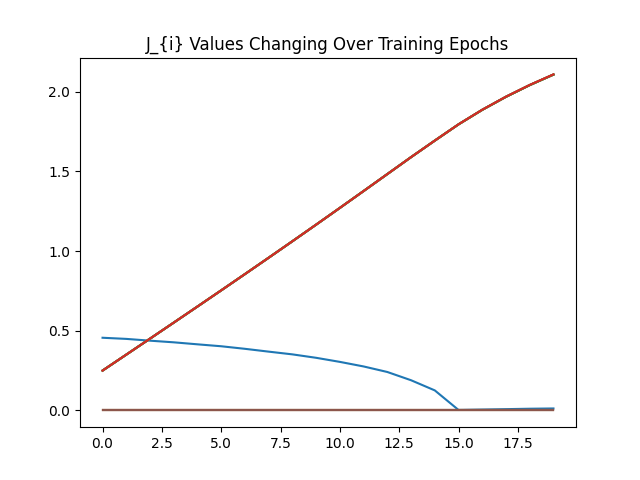
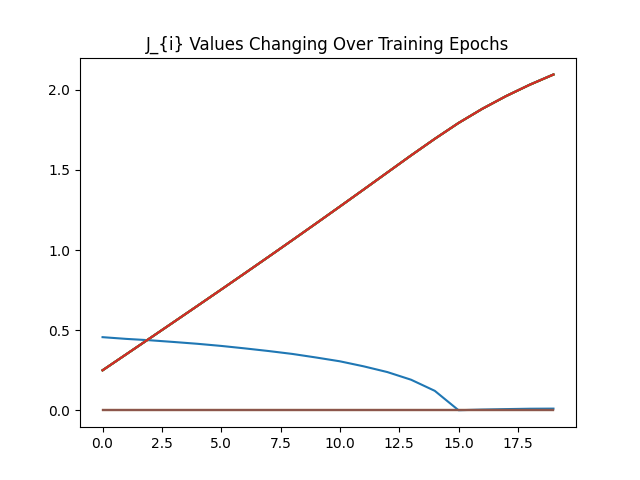
deploy: 80427f09956c0a13928e93d9e6db05a225fab4cf

diff --git a/searchindex.js b/searchindex.js
@@ -1,1 +1,1 @@
-Search.setIndex({docnames:["about_whobyt/architecture","about_whobyt/overview","auto_examples/eg001x__template","auto_examples/eg002r__multimodal_simulation","auto_examples/index","auto_examples/sg_execution_times","getting_started/installation","getting_started/running_in_colab","index","usage"],envversion:{"sphinx.domains.c":2,"sphinx.domains.changeset":1,"sphinx.domains.citation":1,"sphinx.domains.cpp":3,"sphinx.domains.index":1,"sphinx.domains.javascript":2,"sphinx.domains.math":2,"sphinx.domains.python":2,"sphinx.domains.rst":2,"sphinx.domains.std":2,"sphinx.ext.intersphinx":1,"sphinx.ext.viewcode":1,sphinx:56},filenames:["about_whobyt/architecture.md","about_whobyt/overview.rst","auto_examples/eg001x__template.rst","auto_examples/eg002r__multimodal_simulation.rst","auto_examples/index.rst","auto_examples/sg_execution_times.rst","getting_started/installation.rst","getting_started/running_in_colab.rst","index.rst","usage.rst"],objects:{},objnames:{},objtypes:{},terms:{"000":[2,5],"0000":3,"0027142425533384085":3,"005348866805434227":3,"00786597840487957":3,"01048542931675911":3,"012152763083577156":3,"042089":3,"042393":3,"0424085":3,"0425134":3,"0425308":3,"0425317":3,"0425625":3,"0433805":3,"0619197":3,"061944":3,"0619608":3,"0619638":3,"0620021":3,"0620246":3,"0620407":3,"0x7f8c270da2b0":3,"1000":[0,3],"1081054":3,"1083786":3,"1084292":3,"1085258":3,"1085742":3,"1085794":3,"108604":3,"109546":3,"11239":0,"12558689713478088":3,"1273":0,"1314":0,"1500":3,"15000":3,"164":[4,5,8],"1661907":3,"1661981":3,"1662351":3,"1662409":3,"1662815":3,"1663":3,"1663021":3,"1663182":3,"1893225759267807":3,"2000":3,"2003":0,"2006":0,"2013":0,"2014":0,"24114802479743958":3,"24999991":3,"2712632":3,"2712777":3,"2713228":3,"2713327":3,"2713772":3,"2713878":3,"2713931":3,"2714103":3,"27591145038604736":3,"302":0,"30459344387054443":3,"3283":3,"33021286129951477":3,"35011327":3,"3501134":3,"35011673":3,"35012004":3,"3501213":3,"35012332":3,"35012335":3,"3501261":3,"35175880789756775":3,"3689139485359192":3,"37711":3,"3771414":3,"3771902":3,"3772057":3,"3772532":3,"3772609":3,"377269":3,"377289":3,"38664954900741577":3,"4026893973350525":3,"4148496091365814":3,"4274386167526245":3,"4286":3,"43773218989372253":3,"4489363431930542":3,"45043683":3,"45043695":3,"45045283":3,"45045328":3,"4504552":3,"4504635":3,"45046967":3,"45047367":3,"45609527826309204":3,"4835755":3,"48363":3,"4836687":3,"4836807":3,"4837295":3,"483762":3,"4837692":3,"4837781":3,"500":3,"55107224":3,"5510742":3,"5510809":3,"5510959":3,"5510981":3,"5511136":3,"55112034":3,"55112356":3,"5899228":3,"5900035":3,"5900154":3,"5900304":3,"5900972":3,"5901314":3,"5901384":3,"5901738":3,"6144":3,"65209574":3,"6521087":3,"6521103":3,"65213346":3,"6521417":3,"65215224":3,"65216106":3,"65216684":3,"6936897":3,"6937048":3,"6937861":3,"6938404":3,"6938405":3,"6938965":3,"6938998":3,"6939691":3,"7536035":3,"753628":3,"7536283":3,"7536538":3,"7536635":3,"75367916":3,"7536861":3,"7536949":3,"778":[3,5],"7886":0,"7956879":3,"7957901":3,"7958465":3,"7958665":3,"7958792":3,"7959222":3,"795928":3,"7961832":3,"8556915":3,"85572296":3,"85572416":3,"85574806":3,"8557604":3,"8557795":3,"8557832":3,"85579556":3,"8869295":3,"8870862":3,"8871466":3,"8871578":3,"8871715":3,"8872119":3,"8872249":3,"8876625":3,"9584389":3,"95847595":3,"9584783":3,"9584786":3,"95851505":3,"95853657":3,"9585378":3,"95855206":3,"9686803":3,"968953":3,"9689735":3,"9690124":3,"969014":3,"9690237":3,"9690657":3,"9697226":3,"case":0,"class":[0,3],"default":[4,5,8],"float":3,"function":[0,4],"import":[0,2,3,7],"int":3,"long":0,"new":7,"return":3,"super":3,"true":3,Added:3,And:2,Not:3,That:3,The:[0,2],Then:[3,7],Used:3,__init__:3,a_E:0,a_i:0,abl:3,abs:3,activ:6,adam:3,add:[1,3],addit:[0,7],all:3,alreadi:3,also:3,alvarez:0,amplitud:0,ani:4,anywai:7,append:3,approv:7,artifici:[0,3],assum:3,ath:2,aug:0,auto_exampl:5,auto_examples_jupyt:4,auto_examples_python:4,avail:4,averag:0,axessubplot:3,axi:3,b_e:0,b_i:0,backward:3,batch:0,being:3,between:3,biolog:0,bit:3,blah:[2,3],bold_fc:3,bold_fc_loss:3,bold_fc_weight:3,bold_histori:3,bold_lay:3,bold_p:3,bold_param:3,bold_psd:3,bold_psd_loss:3,bold_psd_weight:3,bold_stat:3,brain:0,branch:7,browser:7,calcfc:3,calcloss:3,calcpsd:3,calctotalloss:3,calcul:0,call:0,can:[4,7],cat:3,causal:0,cell:7,center:3,chang:3,chdir:7,choosen:3,chosen:3,click:[2,3],clone:[3,6,7],cmap:3,cmat:0,code:[2,3,4,7],com:[6,7],come:9,compar:0,compon:3,con_mtx:3,conda:6,condit:[0,3],conn_mat:0,connect:0,construct:0,contain:3,continu:7,conveni:7,corbetta:0,corner:3,correspond:7,coupl:0,courner:3,creat:[3,6],cube:3,current:[0,3],d_e:0,d_i:0,data:[0,3],data_tofit:0,debug:3,decis:0,deco:0,decorrel:3,def:3,defin:0,delai:0,delayst:0,demo:[4,5],depend:0,depr:3,detach:3,differ:[0,3,4],dim:3,dist:3,dist_mtx:3,distanc:3,distribut:3,dmat:0,doc:7,doe:[2,3],down:7,download:[2,3,4],downsmoothpsd:3,drop:7,dtype:3,dure:3,dynam:0,each:[0,3,7],eeg:0,eeg_fc:3,eeg_fc_loss:3,eeg_fc_weight:3,eeg_histori:3,eeg_lay:3,eeg_param:3,eeg_psd:3,eeg_psd_loss:3,eeg_psd_weight:3,effect:0,eg001x__templ:[2,5],eg002r__multimodal_simul:[3,5],eig:3,eigenvalu:3,either:0,electrod:3,els:3,emerg:0,empir:0,environ:[6,7],epoch:3,equal:3,equat:0,erp_timeseries_data:0,event:3,exampl:[2,3,7],excit:0,excitatori:0,execut:5,experi:7,explor:4,extern:0,eye:3,face:3,fals:3,feed:0,feedback:0,ffi:0,fic:0,figsiz:3,figur:3,file:[0,5,7],find:3,first:[3,7],fit:[0,4,5,8],fit_model:0,fitted_r:0,fitter:0,fluctuat:0,fmri:0,folder:6,follow:7,forward:[0,3],four:3,fourth:3,friston:0,from:[0,2,3,6],full:[2,3],functionalconnectivityloss:3,galleri:[2,3,4,7],gamma:0,gammai:0,gate:0,gaussian:0,gener:[2,4],get:[0,3],git:[6,7],github:[6,7],good:7,graph:0,griffithslab:[6,7],hagmann:0,harrison:0,has:4,heatmap:3,here:[2,3,9],how:0,http:[6,7],i_0:0,i_extern:0,idea:7,imag:2,impact:0,increasingli:7,index_img:2,indiviu:3,inhibit:0,inhibitori:0,init_st:3,initi:3,input:0,insert:7,instal:8,install_colab:7,integr:0,ipynb:[2,3,7],item:3,j_nmda:0,j_valu:3,jan:0,jansen_lay:3,jansenritt:0,journal:0,jul:0,jun:0,jupyt:[2,3,4],kinet:0,label:3,lambda:0,latest:6,layer:0,lead_field:3,legend:3,length:3,lf_con_mtx:3,lf_dist_mtx:3,lf_norm:3,lf_sc_mtx:3,lf_sc_mtx_norm:3,lf_sphere_point:3,lf_square_point:3,librari:2,like:2,linalg:3,linear:0,list:[3,7],local:0,locat:3,look:3,loss:[0,3],losscomp:3,losscompon:3,mai:0,make:3,mantini:0,manual:6,mask:3,matplotlib:[2,3],matrix_norm:3,max:3,maxfreq:3,mean:[4,5,8],meanvariableloss:3,mechan:0,middl:3,might:3,minfreq:3,minim:7,minut:[2,3],mmmodel:3,modal:3,model_fit:3,modif:0,modul:[3,4],more:[2,3],msec:3,multi:3,multipli:3,named_paramet:3,navig:7,network:0,neuroimag:[0,2],neurosci:0,next_start_st:3,nib:2,nibabel:2,nilearn:2,node:[0,3],node_histori:3,node_st:3,nois:0,norm:3,normal:3,note:[0,3,9],notebook:[2,3,7],noth:3,now:[0,6,7],num_channel:3,num_epoch:0,num_region:3,numpi:3,object:0,objectivefunct:3,omput:7,one:7,ones:3,onto:3,optim:3,option:7,ord:3,order:4,organ:[4,7],oscil:0,other:0,out:3,over:3,overal:0,page:7,pair:3,panda:[2,3],paper:0,param:[0,3],paramet:[4,5,8],paramsbold:3,paramseeg:3,paramsjr:[0,3],paramsnod:3,penni:0,perceptu:0,pip:6,place:3,plot:[0,2],plot_stat_map:2,plt:[2,3],point:3,ponc:0,powerspectrumloss:3,present:0,print:[2,3],project:3,psd:0,pyplot:[2,3],python:[2,3,4,6,7],radiu:3,randn_lik:3,random:3,rang:[0,3],ratio:0,rdbu_r:3,recurr:0,region:3,rel:3,relat:2,remov:3,repeat:3,repositori:7,requir:6,requires_grad:3,research:7,rest:[0,7],returnlosscompon:3,rnn:0,rnnjansen:[0,3],rnnwwd:3,romani:0,run:[0,2,3],rww:[0,4,5,8],rww_layer:3,rww_param:3,s_e:[0,4,5,8],s_e_mean:3,s_e_mean_loss:3,s_e_mean_weight:3,s_i:0,s_i_mean:3,s_i_mean_loss:3,s_i_mean_weight:3,sai:2,samplefreqhz:3,sc_mtx:3,sc_mtx_norm:3,scalepsd:3,scientif:7,script:[2,3],sdaxi:3,sdaxis_d:3,sdvalu:3,sdvalues_d:3,sdvalues_ds_sc:3,seaborn:3,second:[2,3],section:4,see:7,select:7,self:[0,3],serv:0,set:0,shape:[0,3],should:[0,7],sig:0,signal:[0,3],sim_fc:3,sim_len:3,sim_r:0,similar:3,simpli:0,simul:[0,3],size:3,skip_tran:3,sleep:7,slow:0,sns:3,some:[3,7],sourc:[2,3,4],sphere:3,sphere_point:3,sphinx:[2,3,4,7],sqrt:3,squar:3,square_point:3,squre:3,standard:0,start:0,state:0,step:[3,7],step_siz:3,str:3,stuff:[2,3],suggest:0,sum:3,synapt:0,system:7,tab:7,take:0,targeteeg:3,targetvalu:3,tau_:0,tau_i:0,tau_nmda:0,temporarili:0,tensor:3,test:0,text:3,theoret:3,thi:[0,3,4],third:3,thu:3,time:[0,2,3,7],timeseri:0,titl:3,todo:0,tool:2,top:7,topic:4,torch:3,total:[2,3,5],totalloss:3,totallossfn:3,track:3,txt:6,uncorrel:0,updat:[0,3],use_prior:0,used:7,useful:7,using:[0,4,5,8],v_of_t:0,valu:[0,3],variabl:0,varidx:3,variou:3,version:6,viz:[0,3],vmax:3,vmin:3,w_e:0,w_i:0,w_plu:0,wai:3,wang:0,weight:3,were:3,what:3,which:0,whobpyt:[3,4,5,6],whole:0,wong:0,written:3,xlabel:3,ylabel:3,you:7,zero:3,zero_grad:3,zheng:0,zip:4},titles:["WhoBPyT Code Base Architecture","Overview","WhoBPyT Demo","Fitting S_E Mean to 0.164 using default RWW Parameters","All Notebook Examples","Computation times","Installation","Running whobpyt in google colab","Welcome to WhoBPyT documentation!","Usage"],titleterms:{"164":3,"default":3,"function":3,The:3,adjust:3,after:3,all:4,anoth:2,api:0,architectur:0,base:0,biophys:0,bold:3,channel:3,cnmm:3,code:0,colab:7,comput:5,connect:3,content:4,defin:3,demo:2,document:8,eeg:3,exampl:4,field:3,fit:3,further:3,gener:3,get:8,googl:7,importag:[2,3],instal:6,lead:3,local:4,matrix:3,mean:3,model:[0,3],modul:0,network:3,notebook:4,object:3,overview:1,paramet:[0,3],physic:3,plot:3,possibl:3,psd:3,run:7,rww:3,rww_layer:0,rww_param:0,s_e:3,s_i:3,some:2,space:3,start:8,structur:[0,3],system:0,thing:2,time:5,train:3,usag:[0,9],using:3,welcom:8,whobpyt:[0,2,7,8]}})
+Search.setIndex({docnames:["about_whobyt/architecture","about_whobyt/overview","auto_examples/eg001x__template","auto_examples/eg002r__multimodal_simulation","auto_examples/index","auto_examples/sg_execution_times","getting_started/installation","getting_started/running_in_colab","index","usage"],envversion:{"sphinx.domains.c":2,"sphinx.domains.changeset":1,"sphinx.domains.citation":1,"sphinx.domains.cpp":3,"sphinx.domains.index":1,"sphinx.domains.javascript":2,"sphinx.domains.math":2,"sphinx.domains.python":2,"sphinx.domains.rst":2,"sphinx.domains.std":2,"sphinx.ext.intersphinx":1,"sphinx.ext.viewcode":1,sphinx:56},filenames:["about_whobyt/architecture.md","about_whobyt/overview.rst","auto_examples/eg001x__template.rst","auto_examples/eg002r__multimodal_simulation.rst","auto_examples/index.rst","auto_examples/sg_execution_times.rst","getting_started/installation.rst","getting_started/running_in_colab.rst","index.rst","usage.rst"],objects:{},objnames:{},objtypes:{},terms:{"000":[2,5],"0000":3,"0010717915138229728":3,"005183757748454809":3,"008117249235510826":3,"01040077768266201":3,"01114040520042181":3,"0304875":3,"0306776":3,"0309062":3,"03098":3,"0310159":3,"0312378":3,"0313478":3,"031605":3,"0619757":3,"0619816":3,"0619925":3,"0619944":3,"0619959":3,"0620065":3,"0620068":3,"0620334":3,"0941355":3,"0943682":3,"0947177":3,"094733":3,"0948186":3,"095095":3,"0951555":3,"0954788":3,"0x7fb32929c3d0":3,"1000":[0,3],"11239":0,"12198325246572495":3,"1273":0,"1314":0,"1500":3,"15000":3,"164":[4,5,8],"1662482":3,"166257":3,"1662661":3,"1662667":3,"1662685":3,"1662812":3,"1662841":3,"1663157":3,"19131018221378326":3,"2000":3,"2003":0,"2006":0,"2013":0,"2014":0,"23909242451190948":3,"24999991":3,"2713424":3,"2713511":3,"2713578":3,"2713623":3,"2713635":3,"2713783":3,"2714182":3,"2714192":3,"2749182879924774":3,"302":0,"30621710419654846":3,"3283":3,"329868882894516":3,"35012248":3,"35012817":3,"3501291":3,"35012925":3,"3501297":3,"35013324":3,"35013384":3,"35013404":3,"35209059715270996":3,"37020590901374817":3,"3772081":3,"3772087":3,"37722":3,"3772244":3,"3772275":3,"3772479":3,"3772969":3,"3772987":3,"3866949677467346":3,"392":[3,5],"4021110236644745":3,"4153759777545929":3,"4266946613788605":3,"4286":3,"4373551309108734":3,"4459438920021057":3,"4504599":3,"45046395":3,"45046443":3,"45047122":3,"4504756":3,"4504757":3,"45047688":3,"45047775":3,"45671841502189636":3,"4836428":3,"4836605":3,"4836738":3,"4836799":3,"4836876":3,"4837036":3,"483767":3,"4837837":3,"500":3,"55109304":3,"55110914":3,"55111":3,"55111855":3,"55111974":3,"5511218":3,"551122":3,"551125":3,"5900933":3,"5901047":3,"5901237":3,"590127":3,"5901648":3,"5901701":3,"590201":3,"5902668":3,"6144":3,"65212715":3,"65214336":3,"6521455":3,"6521532":3,"6521596":3,"65216076":3,"6521613":3,"65216196":3,"6935598":3,"6936631":3,"6936733":3,"6937044":3,"6937047":3,"6937178":3,"6937612":3,"6937615":3,"75364876":3,"75365657":3,"75366807":3,"7536708":3,"75367594":3,"7536779":3,"753679":3,"7536885":3,"7886":0,"7923648":3,"7924137":3,"7924188":3,"7924485":3,"7925218":3,"7925303":3,"7926525":3,"7926952":3,"85574365":3,"85574627":3,"85575914":3,"85576475":3,"85576636":3,"8557667":3,"85577273":3,"85578895":3,"8805852":3,"8806955":3,"8807408":3,"8807706":3,"8808376":3,"8808948":3,"8810697":3,"8811563":3,"9584943":3,"958496":3,"9585092":3,"9585126":3,"9585142":3,"95851994":3,"9585233":3,"95854497":3,"9595963":3,"959743":3,"9598999":3,"9599357":3,"9599928":3,"9601461":3,"9602901":3,"9604403":3,"case":0,"class":[0,3],"default":[4,5,8],"float":3,"function":[0,4],"import":[0,2,3,7],"int":3,"long":0,"new":7,"return":3,"super":3,"true":3,Added:3,And:2,Not:3,That:3,The:[0,2],Then:[3,7],Used:3,__init__:3,a_E:0,a_i:0,abl:3,abs:3,activ:6,adam:3,add:[1,3],addit:[0,7],all:3,alreadi:3,also:3,alvarez:0,amplitud:0,ani:4,anywai:7,append:3,approv:7,artifici:[0,3],assum:3,ath:2,aug:0,auto_exampl:5,auto_examples_jupyt:4,auto_examples_python:4,avail:4,averag:0,axessubplot:3,axi:3,b_e:0,b_i:0,backward:3,batch:0,being:3,between:3,biolog:0,bit:3,blah:[2,3],bold_fc:3,bold_fc_loss:3,bold_fc_weight:3,bold_histori:3,bold_lay:3,bold_p:3,bold_param:3,bold_psd:3,bold_psd_loss:3,bold_psd_weight:3,bold_stat:3,brain:0,branch:7,browser:7,calcfc:3,calcloss:3,calcpsd:3,calctotalloss:3,calcul:0,call:0,can:[4,7],cat:3,causal:0,cell:7,center:3,chang:3,chdir:7,choosen:3,chosen:3,click:[2,3],clone:[3,6,7],cmap:3,cmat:0,code:[2,3,4,7],com:[6,7],come:9,compar:0,compon:3,con_mtx:3,conda:6,condit:[0,3],conn_mat:0,connect:0,construct:0,contain:3,continu:7,conveni:7,corbetta:0,corner:3,correspond:7,coupl:0,courner:3,creat:[3,6],cube:3,current:[0,3],d_e:0,d_i:0,data:[0,3],data_tofit:0,debug:3,decis:0,deco:0,decorrel:3,def:3,defin:0,delai:0,delayst:0,demo:[4,5],depend:0,depr:3,detach:3,differ:[0,3,4],dim:3,dist:3,dist_mtx:3,distanc:3,distribut:3,dmat:0,doc:7,doe:[2,3],down:7,download:[2,3,4],downsmoothpsd:3,drop:7,dtype:3,dure:3,dynam:0,each:[0,3,7],eeg:0,eeg_fc:3,eeg_fc_loss:3,eeg_fc_weight:3,eeg_histori:3,eeg_lay:3,eeg_param:3,eeg_psd:3,eeg_psd_loss:3,eeg_psd_weight:3,effect:0,eg001x__templ:[2,5],eg002r__multimodal_simul:[3,5],eig:3,eigenvalu:3,either:0,electrod:3,els:3,emerg:0,empir:0,environ:[6,7],epoch:3,equal:3,equat:0,erp_timeseries_data:0,event:3,exampl:[2,3,7],excit:0,excitatori:0,execut:5,experi:7,explor:4,extern:0,eye:3,face:3,fals:3,feed:0,feedback:0,ffi:0,fic:0,figsiz:3,figur:3,file:[0,5,7],find:3,first:[3,7],fit:[0,4,5,8],fit_model:0,fitted_r:0,fitter:0,fluctuat:0,fmri:0,folder:6,follow:7,forward:[0,3],four:3,fourth:3,friston:0,from:[0,2,3,6],full:[2,3],functionalconnectivityloss:3,galleri:[2,3,4,7],gamma:0,gammai:0,gate:0,gaussian:0,gener:[2,4],get:[0,3],git:[6,7],github:[6,7],good:7,graph:0,griffithslab:[6,7],hagmann:0,harrison:0,has:4,heatmap:3,here:[2,3,9],how:0,http:[6,7],i_0:0,i_extern:0,idea:7,imag:2,impact:0,increasingli:7,index_img:2,indiviu:3,inhibit:0,inhibitori:0,init_st:3,initi:3,input:0,insert:7,instal:8,install_colab:7,integr:0,ipynb:[2,3,7],item:3,j_nmda:0,j_valu:3,jan:0,jansen_lay:3,jansenritt:0,journal:0,jul:0,jun:0,jupyt:[2,3,4],kinet:0,label:3,lambda:0,latest:6,layer:0,lead_field:3,legend:3,length:3,lf_con_mtx:3,lf_dist_mtx:3,lf_norm:3,lf_sc_mtx:3,lf_sc_mtx_norm:3,lf_sphere_point:3,lf_square_point:3,librari:2,like:2,linalg:3,linear:0,list:[3,7],local:0,locat:3,look:3,loss:[0,3],losscomp:3,losscompon:3,mai:0,make:3,mantini:0,manual:6,mask:3,matplotlib:[2,3],matrix_norm:3,max:3,maxfreq:3,mean:[4,5,8],meanvariableloss:3,mechan:0,middl:3,might:3,minfreq:3,minim:7,minut:[2,3],mmmodel:3,modal:3,model_fit:3,modif:0,modul:[3,4],more:[2,3],msec:3,multi:3,multipli:3,named_paramet:3,navig:7,network:0,neuroimag:[0,2],neurosci:0,next_start_st:3,nib:2,nibabel:2,nilearn:2,node:[0,3],node_histori:3,node_st:3,nois:0,norm:3,normal:3,note:[0,3,9],notebook:[2,3,7],noth:3,now:[0,6,7],num_channel:3,num_epoch:0,num_region:3,numpi:3,object:0,objectivefunct:3,omput:7,one:7,ones:3,onto:3,optim:3,option:7,ord:3,order:4,organ:[4,7],oscil:0,other:0,out:3,over:3,overal:0,page:7,pair:3,panda:[2,3],paper:0,param:[0,3],paramet:[4,5,8],paramsbold:3,paramseeg:3,paramsjr:[0,3],paramsnod:3,penni:0,perceptu:0,pip:6,place:3,plot:[0,2],plot_stat_map:2,plt:[2,3],point:3,ponc:0,powerspectrumloss:3,present:0,print:[2,3],project:3,psd:0,pyplot:[2,3],python:[2,3,4,6,7],radiu:3,randn_lik:3,random:3,rang:[0,3],ratio:0,rdbu_r:3,recurr:0,region:3,rel:3,relat:2,remov:3,repeat:3,repositori:7,requir:6,requires_grad:3,research:7,rest:[0,7],returnlosscompon:3,rnn:0,rnnjansen:[0,3],rnnwwd:3,romani:0,run:[0,2,3],rww:[0,4,5,8],rww_layer:3,rww_param:3,s_e:[0,4,5,8],s_e_mean:3,s_e_mean_loss:3,s_e_mean_weight:3,s_i:0,s_i_mean:3,s_i_mean_loss:3,s_i_mean_weight:3,sai:2,samplefreqhz:3,sc_mtx:3,sc_mtx_norm:3,scalepsd:3,scientif:7,script:[2,3],sdaxi:3,sdaxis_d:3,sdvalu:3,sdvalues_d:3,sdvalues_ds_sc:3,seaborn:3,second:[2,3],section:4,see:7,select:7,self:[0,3],serv:0,set:0,shape:[0,3],should:[0,7],sig:0,signal:[0,3],sim_fc:3,sim_len:3,sim_r:0,similar:3,simpli:0,simul:[0,3],size:3,skip_tran:3,sleep:7,slow:0,sns:3,some:[3,7],sourc:[2,3,4],sphere:3,sphere_point:3,sphinx:[2,3,4,7],sqrt:3,squar:3,square_point:3,squre:3,standard:0,start:0,state:0,step:[3,7],step_siz:3,str:3,stuff:[2,3],suggest:0,sum:3,synapt:0,system:7,tab:7,take:0,targeteeg:3,targetvalu:3,tau_:0,tau_i:0,tau_nmda:0,temporarili:0,tensor:3,test:0,text:3,theoret:3,thi:[0,3,4],third:3,thu:3,time:[0,2,3,7],timeseri:0,titl:3,todo:0,tool:2,top:7,topic:4,torch:3,total:[2,3,5],totalloss:3,totallossfn:3,track:3,txt:6,uncorrel:0,updat:[0,3],use_prior:0,used:7,useful:7,using:[0,4,5,8],v_of_t:0,valu:[0,3],variabl:0,varidx:3,variou:3,version:6,viz:[0,3],vmax:3,vmin:3,w_e:0,w_i:0,w_plu:0,wai:3,wang:0,weight:3,were:3,what:3,which:0,whobpyt:[3,4,5,6],whole:0,wong:0,written:3,xlabel:3,ylabel:3,you:7,zero:3,zero_grad:3,zheng:0,zip:4},titles:["WhoBPyT Code Base Architecture","Overview","WhoBPyT Demo","Fitting S_E Mean to 0.164 using default RWW Parameters","All Notebook Examples","Computation times","Installation","Running whobpyt in google colab","Welcome to WhoBPyT documentation!","Usage"],titleterms:{"164":3,"default":3,"function":3,The:3,adjust:3,after:3,all:4,anoth:2,api:0,architectur:0,base:0,biophys:0,bold:3,channel:3,cnmm:3,code:0,colab:7,comput:5,connect:3,content:4,defin:3,demo:2,document:8,eeg:3,exampl:4,field:3,fit:3,further:3,gener:3,get:8,googl:7,importag:[2,3],instal:6,lead:3,local:4,matrix:3,mean:3,model:[0,3],modul:0,network:3,notebook:4,object:3,overview:1,paramet:[0,3],physic:3,plot:3,possibl:3,psd:3,run:7,rww:3,rww_layer:0,rww_param:0,s_e:3,s_i:3,some:2,space:3,start:8,structur:[0,3],system:0,thing:2,time:5,train:3,usag:[0,9],using:3,welcom:8,whobpyt:[0,2,7,8]}})

diff --git a/auto_examples/eg002r__multimodal_simulation.html b/auto_examples/eg002r__multimodal_simulation.html
@@ -466,85 +466,85 @@ Also, written in such a way as to be able to track and plot indiviual components
 tensor([0.1500, 0.1500, 0.1500, 0.1500, 0.1500, 0.1500, 0.1500, 0.1500],
        requires_grad=True))]
 0
-totalLoss =  0.45609527826309204
+totalLoss =  0.45671841502189636
 J values =  [0.24999991 0.24999991 0.24999991 0.24999991 0.24999991 0.24999991
  0.24999991 0.24999991]
 1
-totalLoss =  0.4489363431930542
-J values =  [0.35011327 0.3501134  0.35012335 0.35012004 0.35011673 0.35012332
- 0.3501213  0.3501261 ]
+totalLoss =  0.4459438920021057
+J values =  [0.35013404 0.3501297  0.35012248 0.35013324 0.35012817 0.35012925
+ 0.3501291  0.35013384]
 2
-totalLoss =  0.43773218989372253
-J values =  [0.45043695 0.45043683 0.4504552  0.45045283 0.45045328 0.4504635
- 0.45046967 0.45047367]
+totalLoss =  0.4373551309108734
+J values =  [0.4504756  0.4504599  0.45046443 0.4504757  0.45047122 0.45047775
+ 0.45046395 0.45047688]
 3
-totalLoss =  0.4274386167526245
-J values =  [0.5510809  0.55107224 0.5510959  0.5510742  0.5510981  0.5511136
- 0.55112034 0.55112356]
+totalLoss =  0.4266946613788605
+J values =  [0.5511218  0.55109304 0.551122   0.551125   0.55111    0.55111974
+ 0.55110914 0.55111855]
 4
-totalLoss =  0.4148496091365814
-J values =  [0.6521103  0.6521087  0.65213346 0.65209574 0.6521417  0.65215224
- 0.65216684 0.65216106]
+totalLoss =  0.4153759777545929
+J values =  [0.65216196 0.65212715 0.6521613  0.65216076 0.6521455  0.65214336
+ 0.6521596  0.6521532 ]
 5
-totalLoss =  0.4026893973350525
-J values =  [0.7536283  0.753628   0.7536538  0.7536035  0.7536635  0.75367916
- 0.7536949  0.7536861 ]
+totalLoss =  0.4021110236644745
+J values =  [0.75367594 0.75364876 0.7536779  0.753679   0.75366807 0.75365657
+ 0.7536885  0.7536708 ]
 6
-totalLoss =  0.38664954900741577
-J values =  [0.85572296 0.85572416 0.85574806 0.8556915  0.8557604  0.8557795
- 0.85579556 0.8557832 ]
+totalLoss =  0.3866949677467346
+J values =  [0.85576475 0.85574365 0.8557667  0.85577273 0.85575914 0.85574627
+ 0.85578895 0.85576636]
 7
-totalLoss =  0.3689139485359192
-J values =  [0.95847595 0.9584783  0.9584786  0.9584389  0.95851505 0.95853657
- 0.95855206 0.9585378 ]
+totalLoss =  0.37020590901374817
+J values =  [0.9585126  0.958496   0.9585142  0.9585233  0.9585092  0.9584943
+ 0.95854497 0.95851994]
 8
-totalLoss =  0.35175880789756775
-J values =  [1.0619608 1.0619638 1.061944  1.0619197 1.0620021 1.0620246 1.0620407
- 1.0620246]
+totalLoss =  0.35209059715270996
+J values =  [1.0619944 1.0619816 1.0619959 1.0620068 1.0619925 1.0619757 1.0620334
+ 1.0620065]
 9
-totalLoss =  0.33021286129951477
-J values =  [1.1662351 1.1662409 1.1661981 1.1661907 1.1662815 1.1663021 1.1663182
- 1.1663   ]
+totalLoss =  0.329868882894516
+J values =  [1.1662661 1.166257  1.1662685 1.1662812 1.1662667 1.1662482 1.1663157
+ 1.1662841]
 10
-totalLoss =  0.30459344387054443
-J values =  [1.2713228 1.2713327 1.2712632 1.2712777 1.2713772 1.2713931 1.2714103
- 1.2713878]
+totalLoss =  0.30621710419654846
+J values =  [1.2713578 1.2713511 1.2713623 1.2713783 1.2713635 1.2713424 1.2714192
+ 1.2714182]
 11
-totalLoss =  0.27591145038604736
-J values =  [1.3771902 1.3772057 1.37711   1.3771414 1.3772609 1.377269  1.377289
- 1.3772532]
+totalLoss =  0.2749182879924774
+J values =  [1.37722   1.3772081 1.3772244 1.3772479 1.3772275 1.3772087 1.3772987
+ 1.3772969]
 12
-totalLoss =  0.24114802479743958
-J values =  [1.4836687 1.4836807 1.4835755 1.48363   1.4837692 1.483762  1.4837781
- 1.4837295]
+totalLoss =  0.23909242451190948
+J values =  [1.4836876 1.4836605 1.4836738 1.4837036 1.4836799 1.4836428 1.4837837
+ 1.483767 ]
 13
-totalLoss =  0.1893225759267807
-J values =  [1.5900035 1.5900304 1.5899228 1.5900154 1.5901314 1.5901738 1.5901384
- 1.5900972]
+totalLoss =  0.19131018221378326
+J values =  [1.5901237 1.5900933 1.590127  1.5901701 1.5901648 1.5901047 1.5902668
+ 1.590201 ]
 14
-totalLoss =  0.12558689713478088
-J values =  [1.6937861 1.6937048 1.6936897 1.6938965 1.6938404 1.6938405 1.6938998
- 1.6939691]
+totalLoss =  0.12198325246572495
+J values =  [1.6937044 1.6935598 1.6937612 1.6937615 1.6936631 1.6936733 1.6937047
+ 1.6937178]
 15
-totalLoss =  0.0027142425533384085
-J values =  [1.7958465 1.7956879 1.7957901 1.7959222 1.795928  1.7958665 1.7958792
- 1.7961832]
+totalLoss =  0.0010717915138229728
+J values =  [1.7925303 1.7924485 1.7926525 1.7926952 1.7924188 1.7924137 1.7923648
+ 1.7925218]
 16
-totalLoss =  0.005348866805434227
-J values =  [1.8871466 1.8869295 1.8870862 1.8872119 1.8872249 1.8871715 1.8871578
- 1.8876625]
+totalLoss =  0.005183757748454809
+J values =  [1.8808948 1.8807706 1.8810697 1.8811563 1.8807408 1.8806955 1.8805852
+ 1.8808376]
 17
-totalLoss =  0.00786597840487957
-J values =  [1.9690124 1.9686803 1.9689735 1.969014  1.9690657 1.9690237 1.968953
- 1.9697226]
+totalLoss =  0.008117249235510826
+J values =  [1.9601461 1.9598999 1.9602901 1.9604403 1.9599357 1.959743  1.9595963
+ 1.9599928]
 18
-totalLoss =  0.01048542931675911
-J values =  [2.0425308 2.042089  2.0425134 2.0424085 2.0425317 2.0425625 2.042393
- 2.0433805]
+totalLoss =  0.01040077768266201
+J values =  [2.0312378 2.0309062 2.0313478 2.031605  2.0310159 2.0306776 2.0304875
+ 2.03098  ]
 19
-totalLoss =  0.012152763083577156
-J values =  [2.1085794 2.1081054 2.1085742 2.1083786 2.1085258 2.108604  2.1084292
- 2.109546 ]
+totalLoss =  0.01114040520042181
+J values =  [2.095095  2.0947177 2.0951555 2.0954788 2.0948186 2.0943682 2.0941355
+ 2.094733 ]
 
 Text(0.5, 1.0, &#39;J_{i} Values Changing Over Training Epochs&#39;)
 </pre></div>
@@ -564,7 +564,7 @@ Text(0.5, 1.0, &#39;J_{i} Values Changing Over Training Epochs&#39;)
 </div>
 <img alt="S_E and S_I" class="sphx-glr-single-img" src="../_images/sphx_glr_eg002r__multimodal_simulation_003.png" />
 <p class="sphx-glr-script-out">Out:</p>
-<div class="sphx-glr-script-out highlight-none notranslate"><div class="highlight"><pre><span></span>&lt;matplotlib.legend.Legend object at 0x7f8c270da2b0&gt;
+<div class="sphx-glr-script-out highlight-none notranslate"><div class="highlight"><pre><span></span>&lt;matplotlib.legend.Legend object at 0x7fb32929c3d0&gt;
 </pre></div>
 </div>
 </div>
@@ -606,7 +606,7 @@ Text(0.5, 1.0, &#39;J_{i} Values Changing Over Training Epochs&#39;)
 &lt;AxesSubplot: title={&#39;center&#39;: &#39;Simulated BOLD FC: After Training&#39;}&gt;
 </pre></div>
 </div>
-<p class="sphx-glr-timing"><strong>Total running time of the script:</strong> ( 15 minutes  1.778 seconds)</p>
+<p class="sphx-glr-timing"><strong>Total running time of the script:</strong> ( 16 minutes  9.392 seconds)</p>
 <div class="sphx-glr-footer class sphx-glr-footer-example docutils container" id="sphx-glr-download-auto-examples-eg002r-multimodal-simulation-py">
 <div class="sphx-glr-download sphx-glr-download-python docutils container">
 <p><a class="reference download internal" download="" href="../_downloads/3c5011f8f7f9c596535d7002f9b87c31/eg002r__multimodal_simulation.py"><code class="xref download docutils literal notranslate"><span class="pre">Download</span> <span class="pre">Python</span> <span class="pre">source</span> <span class="pre">code:</span> <span class="pre">eg002r__multimodal_simulation.py</span></code></a></p>

diff --git a/auto_examples/sg_execution_times.html b/auto_examples/sg_execution_times.html
@@ -178,7 +178,7 @@
             
   <div class="section" id="computation-times">
 <span id="sphx-glr-auto-examples-sg-execution-times"></span><h1>Computation times<a class="headerlink" href="#computation-times" title="Permalink to this headline">¶</a></h1>
-<p><strong>15:01.778</strong> total execution time for <strong>auto_examples</strong> files:</p>
+<p><strong>16:09.392</strong> total execution time for <strong>auto_examples</strong> files:</p>
 <table class="docutils align-default">
 <colgroup>
 <col style="width: 84%" />
@@ -187,7 +187,7 @@
 </colgroup>
 <tbody>
 <tr class="row-odd"><td><p><a class="reference internal" href="eg002r__multimodal_simulation.html#sphx-glr-auto-examples-eg002r-multimodal-simulation-py"><span class="std std-ref">Fitting S_E Mean to 0.164 using default RWW Parameters</span></a> (<code class="docutils literal notranslate"><span class="pre">eg002r__multimodal_simulation.py</span></code>)</p></td>
-<td><p>15:01.778</p></td>
+<td><p>16:09.392</p></td>
 <td><p>0.0 MB</p></td>
 </tr>
 <tr class="row-even"><td><p><a class="reference internal" href="eg001x__template.html#sphx-glr-auto-examples-eg001x-template-py"><span class="std std-ref">WhoBPyT Demo</span></a> (<code class="docutils literal notranslate"><span class="pre">eg001x__template.py</span></code>)</p></td>
